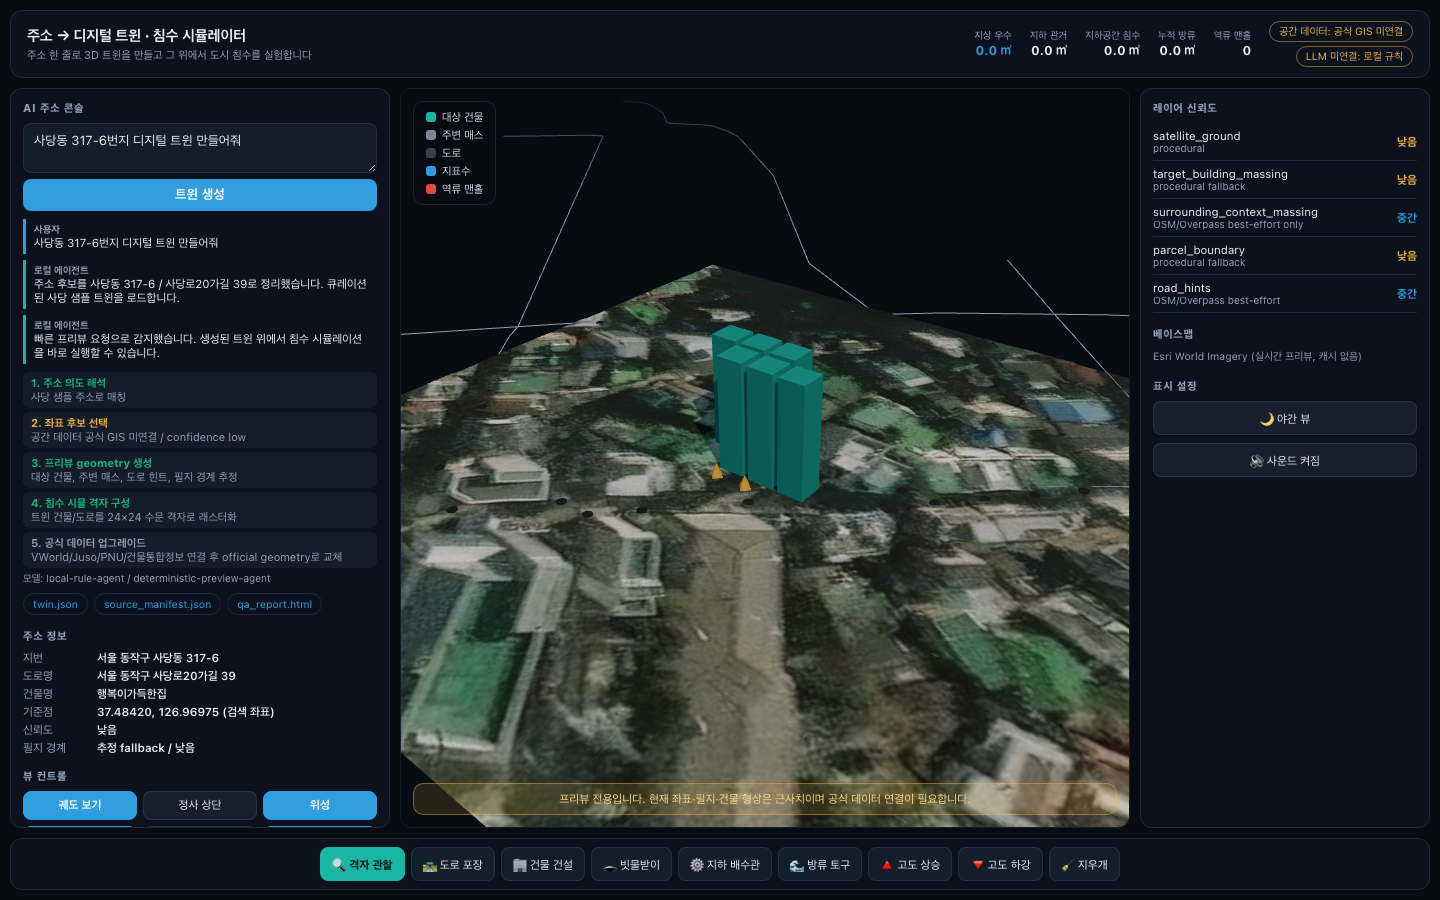
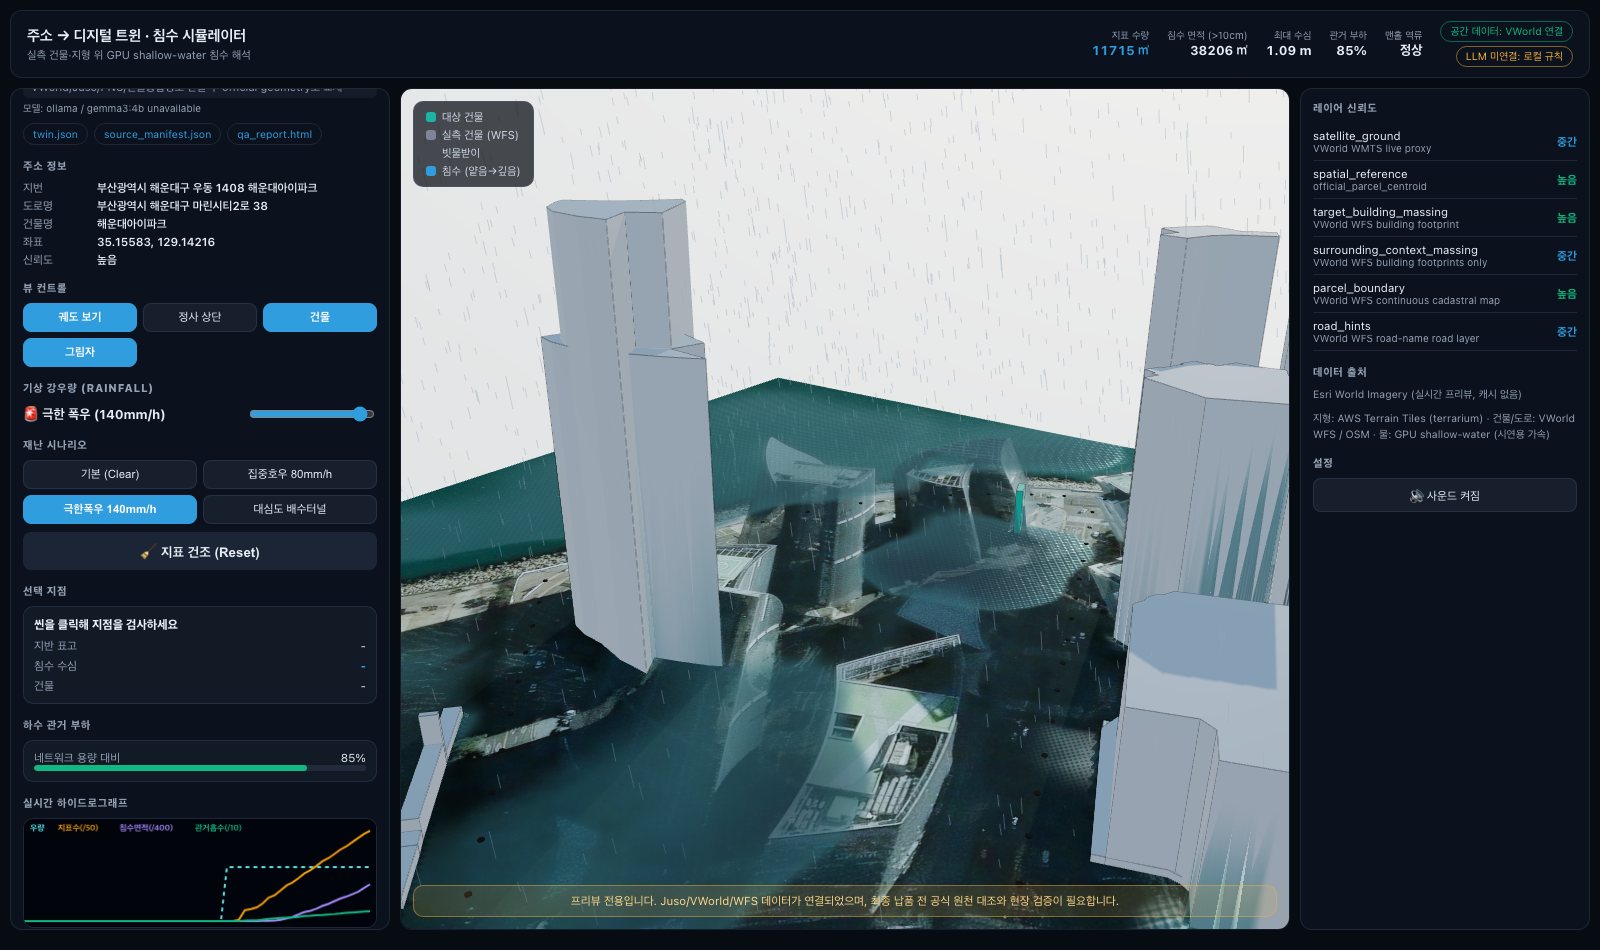
fix: terrain/water robustness from 3-city runtime verification
- clamp terrarium bathymetry (Busan seabed at -180m hijacked the
  min-normalization and floated the whole board)
- depth-weighted foam/opacity so thin hillside films don't render as a
  white sheet
- camera framing clamps for supertall clusters (Marine City 292m)
- absorbed-stat encode scale 25.5→2.55m (small networks read as 0%)
- README/screenshot updated to v3, dev __twin debug handle

diff --git a/src/water/surface.ts b/src/water/surface.ts
@@ -86,16 +86,20 @@ const WATER_FRAGMENT = /* glsl */ `
     float glint = pow(max(dot(normal, halfway), 0.0), 220.0);
     color += vec3(1.0, 0.96, 0.85) * glint * 1.6;
 
-    // foam at wet/dry edges and steep gradients
-    float edgeFoam = 1.0 - smoothstep(0.012, 0.05, vDepth);
-    float slopeFoam = smoothstep(0.18, 0.5, length(vec2(hL - hR, hD - hU)) / cell);
+    // foam at wet/dry edges and steep gradients — but a centimetres-thin film
+    // running down a hillside must NOT read as a white sheet, so weight foam
+    // and opacity by actual depth
+    float depthWeight = smoothstep(0.05, 0.3, vDepth);
+    float edgeFoam = (1.0 - smoothstep(0.015, 0.06, vDepth)) * 0.5;
+    float slopeFoam = smoothstep(0.22, 0.6, length(vec2(hL - hR, hD - hU)) / cell) * depthWeight;
     float foamNoise = sin(vWorld.x * 7.0 + uTime * 2.0) * sin(vWorld.z * 6.3 - uTime * 1.6);
     float foam = clamp(max(edgeFoam, slopeFoam) * (0.55 + 0.45 * foamNoise), 0.0, 1.0);
-    color = mix(color, vec3(0.88, 0.92, 0.93), foam * 0.5);
+    color = mix(color, vec3(0.88, 0.92, 0.93), foam * 0.45);
 
-    float alpha = mix(0.62, 0.94, absorb);
-    alpha = max(alpha, fresnel * 0.9);
-    gl_FragColor = vec4(color, alpha * smoothstep(0.012, 0.035, vDepth));
+    float thin = smoothstep(0.015, 0.09, vDepth);
+    float alpha = mix(0.55, 0.94, absorb);
+    alpha = max(alpha, fresnel * 0.85 * depthWeight);
+    gl_FragColor = vec4(color, alpha * thin);
   }
 `;
 

diff --git a/src/scene/viewer.ts b/src/scene/viewer.ts
@@ -208,13 +208,18 @@ export class CityViewer {
       ? this.twin.buildings.reduce((max, b) => Math.max(max, b.height_m), 0)
       : 0;
     if (view === "top") {
-      this.camera.position.set(0, Math.max(DOMAIN_SIZE_M * 1.15, tallest * 2.6), 0.01);
+      this.camera.position.set(0, Math.max(DOMAIN_SIZE_M * 1.15, tallest * 2.2), 0.01);
+      this.camera.lookAt(0, 0, 0);
+      this.controls.target.set(0, 0, 0);
     } else {
-      const lift = Math.max(DOMAIN_SIZE_M * 0.42, tallest * 1.15);
-      this.camera.position.set(DOMAIN_SIZE_M * 0.52, lift, DOMAIN_SIZE_M * 0.7);
+      // ground (the flood) is the subject — clamp so supertalls can't tilt
+      // the camera into the sky
+      const lift = Math.max(DOMAIN_SIZE_M * 0.42, Math.min(tallest * 1.1, DOMAIN_SIZE_M * 0.62));
+      const aim = Math.min(tallest * 0.2, 32);
+      this.camera.position.set(DOMAIN_SIZE_M * 0.5, lift, DOMAIN_SIZE_M * 0.68);
+      this.camera.lookAt(0, aim, 0);
+      this.controls.target.set(0, aim, 0);
     }
-    this.camera.lookAt(0, tallest * 0.25, 0);
-    this.controls.target.set(0, tallest * 0.25, 0);
     this.controls.update();
   }
 

diff --git a/src/water/solver.ts b/src/water/solver.ts
@@ -130,7 +130,7 @@ const STATS_FRAGMENT = /* glsl */ `
     gl_FragColor = vec4(
       clamp(sumD / 16.0 / 2.55, 0.0, 1.0),   // mean depth, 1 unit = 2.55m
       flooded / 16.0,                          // flooded fraction (>10cm)
-      clamp(sumA / 16.0 / 25.5, 0.0, 1.0),    // mean absorbed, 1 unit = 25.5m
+      clamp(sumA / 16.0 / 2.55, 0.0, 1.0),    // mean absorbed, 1 unit = 2.55m
       clamp(maxD / 2.55, 0.0, 1.0)
     );
   }
@@ -316,7 +316,7 @@ export class WaterSolver {
     for (let i = 0; i < 64 * 64; i++) {
       const meanDepth = (this.statsBuffer[i * 4] / 255) * 2.55;
       const floodedFraction = this.statsBuffer[i * 4 + 1] / 255;
-      const meanAbsorbed = (this.statsBuffer[i * 4 + 2] / 255) * 25.5;
+      const meanAbsorbed = (this.statsBuffer[i * 4 + 2] / 255) * 2.55;
       const blockMax = (this.statsBuffer[i * 4 + 3] / 255) * 2.55;
       volume += meanDepth * blockArea;
       flooded += floodedFraction * blockArea;

diff --git a/src/scene/terrain.ts b/src/scene/terrain.ts
@@ -106,8 +106,13 @@ export async function loadHeightfield(center: Coordinate): Promise<Heightfield> 
     for (let col = 0; col < HEIGHT_GRID; col++) {
       const worldX = (col / (HEIGHT_GRID - 1) - 0.5) * DOMAIN_SIZE_M;
       const worldZ = (row / (HEIGHT_GRID - 1) - 0.5) * DOMAIN_SIZE_M;
-      // local +z = north → image y decreases northward
-      data[row * HEIGHT_GRID + col] = sample(centerPx + worldX * pxPerMeter, centerPy - worldZ * pxPerMeter);
+      // local +z = north → image y decreases northward.
+      // Terrarium is topobathy: the sea floor comes back as -180m off Busan
+      // and would hijack the min-normalization — clamp water to sea level.
+      data[row * HEIGHT_GRID + col] = Math.max(
+        sample(centerPx + worldX * pxPerMeter, centerPy - worldZ * pxPerMeter),
+        -2
+      );
     }
   }
 

diff --git a/src/scene/buildings.ts b/src/scene/buildings.ts
@@ -26,7 +26,7 @@ export function buildCityGroup(
     roughness: 0.35,
     metalness: 0.25,
     emissive: 0x0b4a44,
-    emissiveIntensity: 0.25
+    emissiveIntensity: 0.1
   });
   const officialMaterial = new THREE.MeshStandardMaterial({ color: 0xb9c0cc, roughness: 0.62, metalness: 0.08 });
   const fallbackMaterial = new THREE.MeshStandardMaterial({ color: 0x8e96a3, roughness: 0.8, metalness: 0.02 });

diff --git a/src/scene/sky.ts b/src/scene/sky.ts
@@ -81,7 +81,7 @@ export function createSkyRig(renderer: THREE.WebGLRenderer, scene: THREE.Scene):
       } else {
         sunLight.intensity = 1.5;
         hemiLight.intensity = 0.45;
-        apply(26, 195, 10, 1.1, 0.56);
+        apply(30, 195, 8, 1.6, 0.58);
       }
     },
     dispose: () => {

diff --git a/README.md b/README.md
@@ -3,9 +3,9 @@
 [![CI](https://github.com/VincentChoi33/address-to-digital-twin-mvp/actions/workflows/ci.yml/badge.svg)](https://github.com/VincentChoi33/address-to-digital-twin-mvp/actions/workflows/ci.yml)
 [![License: MIT](https://img.shields.io/badge/License-MIT-yellow.svg)](LICENSE)
 
-Type a Korean address, get a browser-viewable 3D digital twin preview, then run an interactive **urban flood simulation on that twin's buildings and roads**. Zero cash cost: no paid APIs, fully offline-capable. TypeScript + Three.js + Vite.
+Type a Korean address, get a real-data 3D digital twin — actual DEM terrain, actual WFS building footprints, full-resolution satellite drape — then run a **GPU shallow-water flood simulation** on it: continuous water surface with fresnel reflections, storm drains along the real roads, manhole backflow when the network saturates. TypeScript + Three.js + Vite.
 
-**One flow, end to end:** `주소 → 지오코딩(폴백 체인) → 절차적 매싱 → 24×24 수문 격자 래스터화 → 침수 시뮬레이션`. Any address works — out-of-sample addresses get a deterministic offline preview twin generated **client-side**, so the full twin → flood loop runs without a single API key.
+**One flow, end to end:** `주소 → Juso/VWorld 지오코딩 → WFS 실건물·도로 + 실DEM + 위성 → GPU 수문 격자 베이크 → virtual-pipe-model 침수 해석`. Any address works — keyless/offline runs degrade to deterministic preview twins, so the loop never breaks.
 
 ![Web app](docs/images/app-screenshot.png)
 
@@ -17,21 +17,25 @@ Type a Korean address, get a browser-viewable 3D digital twin preview, then run 
 
 **1. Address → twin pipeline** (`src/core/`, runs in Node and in the browser)
 
+*(the deployed `/api/agent` adds VWorld WFS: real parcel-anchored footprints with heights/floors — e.g. 강남파이낸스센터 33-vertex footprint, 202m/45F)*
+
 - Normalizes a raw Korean address request into parcel / road / building-name candidates.
 - Geocodes through a graceful fallback chain: Juso → VWorld → Nominatim → deterministic offline coordinates (Node CLI), or straight to the offline path in the browser.
 - Generates target massing, surrounding context (OSM/Overpass best-effort, seeded procedural fallback), parcel boundary, and road hints.
 - Emits four artifacts: `twin.json`, `source_manifest.json` (per-layer source + confidence), human-readable `qa_report.html`, standalone `preview.html`. In the web app these download as generated blobs for any address.
 
-**2. Hydrology engine** (`src/sim/` — pure TypeScript, no Three.js, fully unit-tested)
+**2. GPU flood solver** (`src/water/`)
 
-- Rasterizes the twin's buildings/roads into a 24×24 cell grid: seeded terrain slope, sewer inlets along roads, a capacity-limited outfall, underground-space entrances near the target.
-- Shallow-water gravity routing, roof runoff, sewer intake, pipe migration toward the outfall, manhole backflow when the network saturates, underground inundation alarm.
-- Deterministic: same twin in, same simulation out. Stylized demo physics (rainfall is amplified for visible flooding), not SWMM.
+- **Virtual pipe model** (Mei et al.) integrated entirely on the GPU: half-float ping-pong textures, per-cell flux to 4 neighbours from hydraulic head, rainfall source, capacity-limited storm-drain sinks, open boundary.
+- Static inputs baked deterministically on the CPU (`bake.ts`, unit-tested): real DEM + extruded building obstacles as the solid heightfield, drain inlets every 18m along the real road centerlines, network capacity → manhole backflow loop.
+- Continuous water-surface shader: depth-based absorption (shallow teal → muddy deep), fresnel sky reflection, sun glint, depth-weighted foam. No blue boxes.
+- Stylized demo physics (rainfall amplified ×200 in one constant), not SWMM.
 
-**3. Viewer + UI** (`src/render/`, `src/app/`)
+**3. Real-data scene** (`src/scene/`)
 
-- Three.js instanced-mesh city (1 draw call per layer), full-resolution satellite drape (z19 ArcGIS/VWorld tile mosaic on a terrain-following sheet), twin massing overlay, orbit/top views, X-ray, shadows, dark/light theme.
-- Disaster scenario presets (극한폭우 140mm/h, 하수도 2배 확장, 대심도 배수터널), rainfall slider, city-editor tools (pave roads, build, place sewers/pipes/outfalls, raise/lower terrain), cell inspector, gauges, rolling hydrograph, synthesized sound (Web Audio).
+- Terrain from **AWS Terrain Tiles** DEM with a DSM→DTM cleanup (morphological erosion + blur — the ALOS source carries tower clusters as 100m fake hills, and ocean pixels are bathymetry) and z18–19 satellite drape.
+- Real WFS/OSM **building footprints extruded** with ring sanitization; physical sky + cube environment driving PBR and water reflections; rain streaks; ACES tone mapping.
+- Disaster scenario presets (집중호우 80mm/h, 극한폭우 140mm/h, 대심도 배수터널), rainfall slider, point inspector, network-load gauge, rolling hydrograph, synthesized sound (Web Audio).
 - **Graceful degradation:** if WebGL is unavailable the app keeps running in console mode — address analysis and artifact downloads still work, with a clear banner instead of a dead page.
 - LLM-style console: a deterministic local rule agent works fully offline; in deployment `/api/agent` can call an Ollama-compatible Gemma endpoint and the client falls back to the local agent when the server is absent.
 
@@ -52,7 +56,7 @@ Try any Korean address in the console:
 부산 해운대구 우동 1408                        # also works — different terrain, same flow
 ```
 
-Then hit **극한폭우 (140mm/h)** and watch the twin flood: streets pond, pipes pressurize, manholes back up red, and the underground-entrance alarm fires.
+Then hit **극한폭우 (140mm/h)** and watch the twin flood: water sheets down the real terrain, ponds in the real low streets, the drain network saturates, and manholes start backflowing.
 
 CLI generation (adds Juso/VWorld/Nominatim/Overpass when keys/network exist):
 
@@ -76,25 +80,14 @@ npx tsx src/core/runAddressTwin.ts --address "서울 강남구 테헤란로 152"
 ```text
 src/
   core/              # address → twin generation (Node + browser-safe)
-    address.ts       #   pure address parsing + deterministic fallback coords
-    geocode.ts       #   Juso/VWorld/Nominatim chain (Node CLI)
-    previewTwin.ts   #   client-side offline twin generation
-    generateMassing.ts, manifest.ts, qa.ts, exportStaticHtml.ts
-    runAddressTwin.ts#   CLI entry point
-  sim/
-    hydrology.ts     # pure flood engine: rasterize twin → step → tools/scenarios
-  render/
-    scene.ts         # Three.js instanced renderer, WebGL-guarded
-    basemap.ts       # live tile mosaic (ArcGIS/VWorld/custom), no caching
-    sound.ts         # Web Audio synth
-  app/
-    main.ts, ui.ts   # grid-layout UI shell + bindings
-    agent.ts         # deterministic local address agent
+  scene/             # terrain (DEM+satellite), buildings (WFS extrude), sky, rain, viewer
+  water/             # GPU pipe-model solver, water surface shader, CPU bake (+tests)
+  app/               # UI shell + agent console + scenario/stats wiring
+  render/            # basemap mosaic loader, Web Audio synth
   types/twin.ts      # shared twin/manifest types
   samples/           # committed Sadang sample artifacts
 deploy/
-  server.py          # zero-dependency static + /api/agent (Ollama/Gemma) server
-  batch_address_qa.py
+  server.py          # static + /api/agent (VWorld WFS + Ollama/Gemma) + tile proxy
 ```
 
 ## Deployment with a local model server
